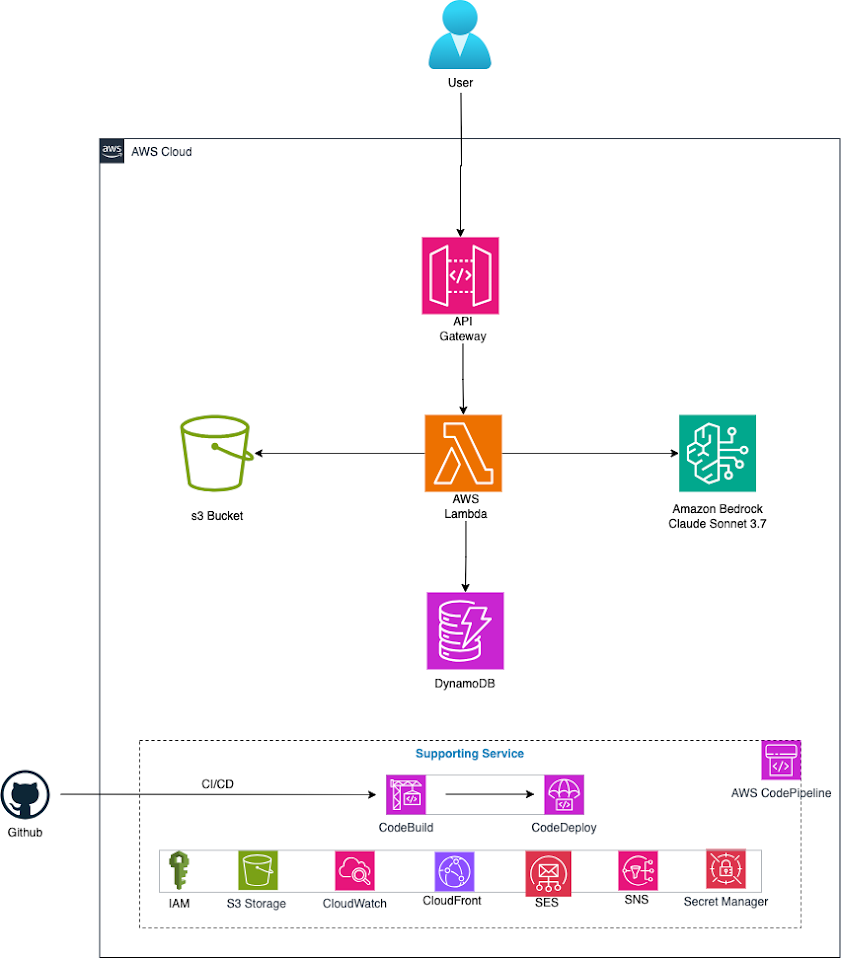
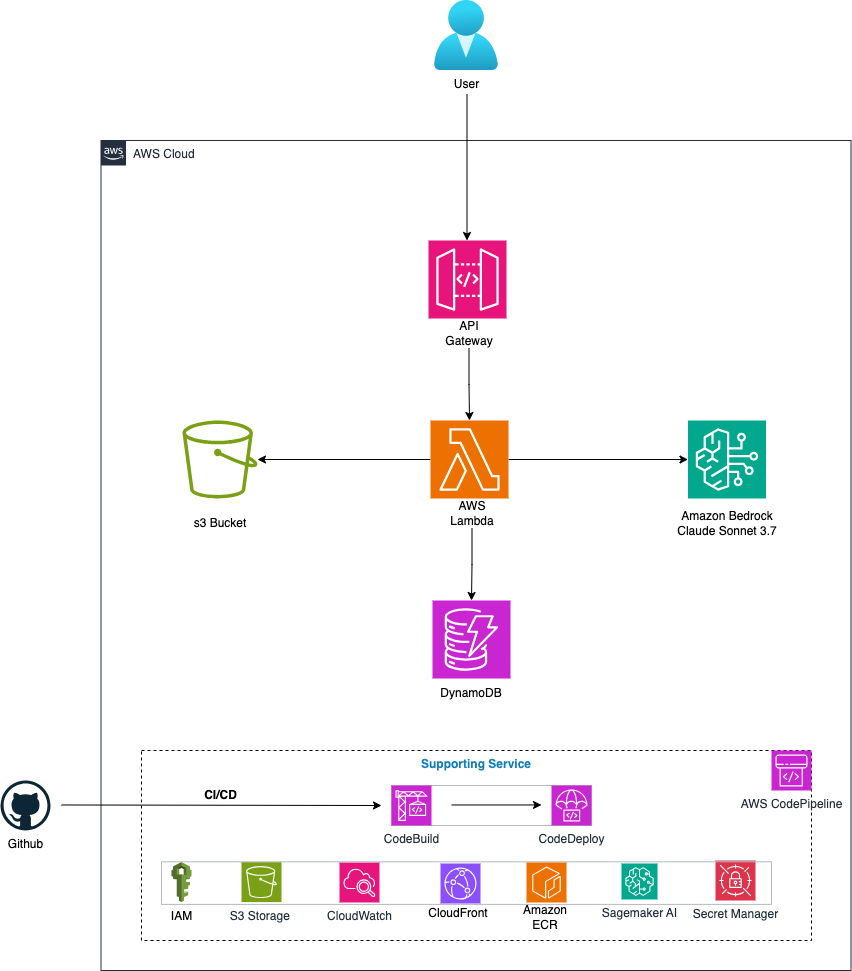
updated README

diff --git a/README.md b/README.md
@@ -50,6 +50,8 @@ git push origin main
 | **Amazon DynamoDB**    | Stores structured output for persistent access                          |
 | **SageMaker Notebooks**| Used to train and evaluate the CV model                                 |
 | **AWS SAM**            | Infrastructure as code and automated deployment                         |
+| **Amazon ECR**         | Docker images repository                                                |
+| **AWS CodePipeline**   | CI/CD                                                                   |
 
 ---
 
@@ -102,5 +104,8 @@ sam deploy --guided
 
 ## Sample API response
 ![Sample response](images/sample_response.png)
+
+## CI/CD Implementation with AWS CodePipeline
+![CI/CD](images/FoodScannerCICD.png)
 
 
